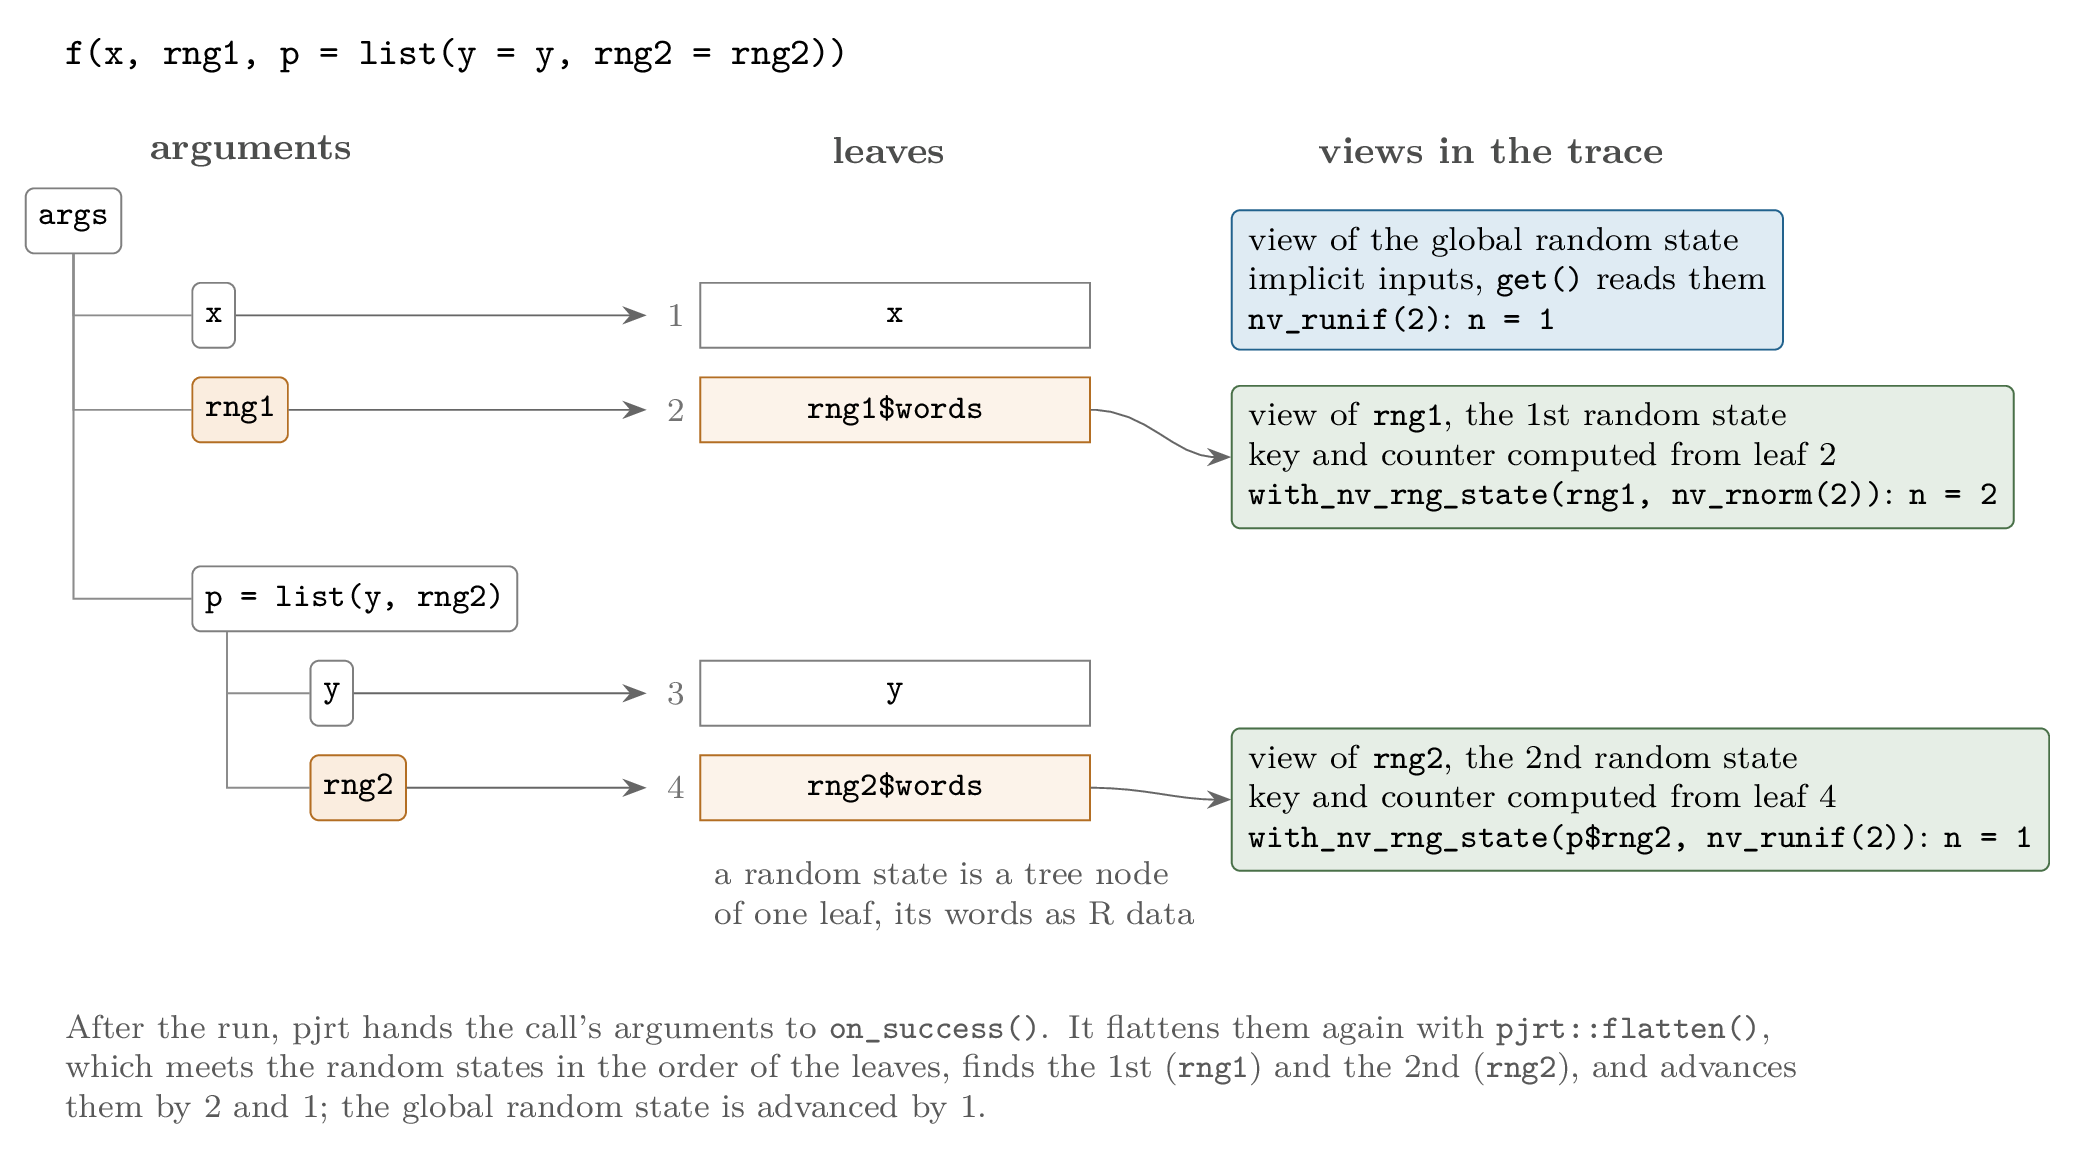
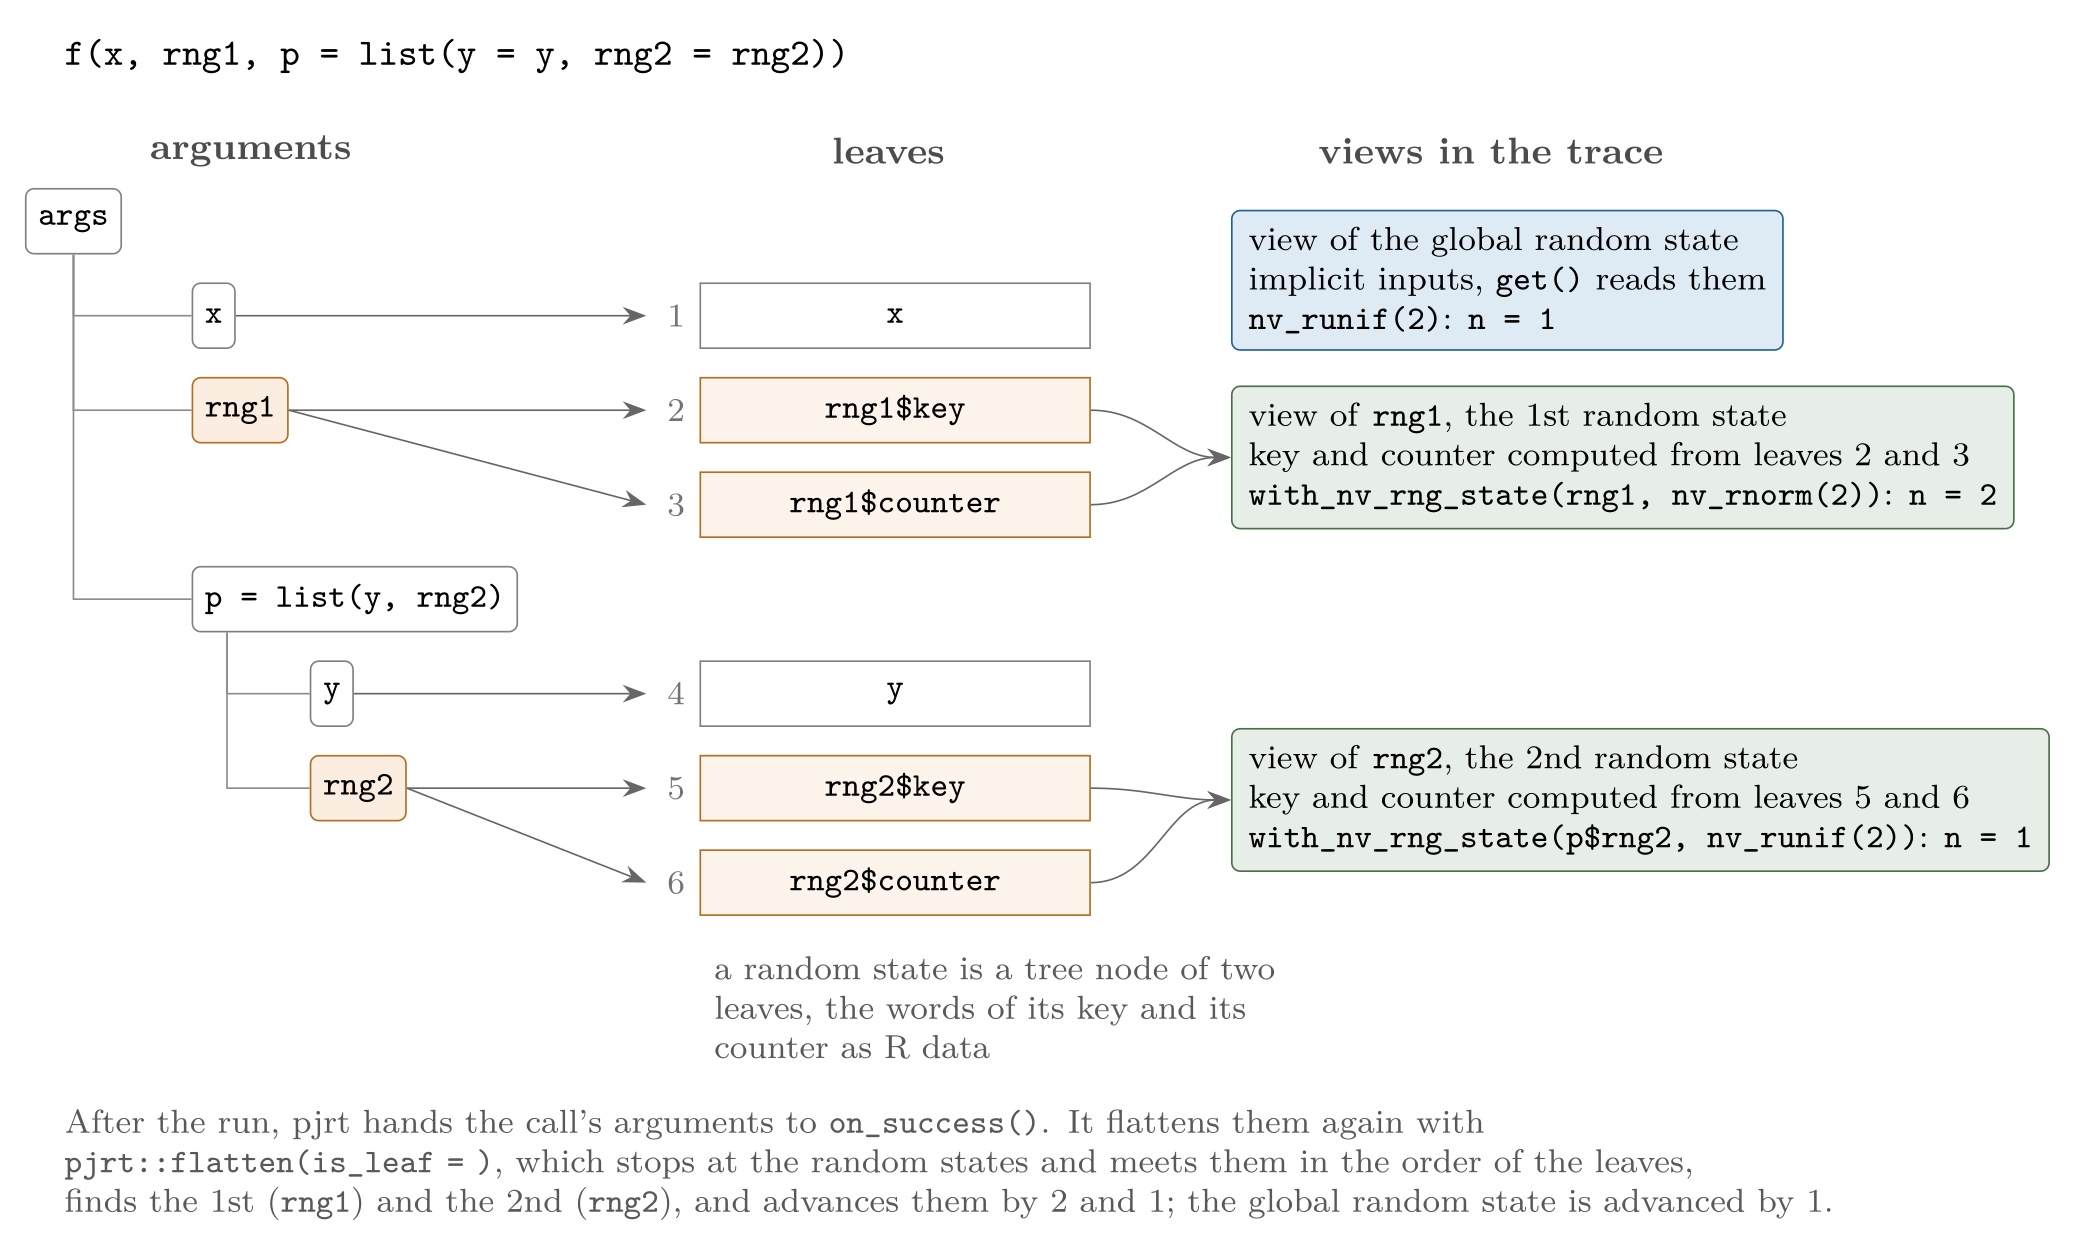
...

diff --git a/vignettes/articles/figures/se-instances.tex b/vignettes/articles/figures/se-instances.tex
@@ -1,11 +1,12 @@
 % The random states one compiled function draws from, and their views:
-% the arguments are flattened into leaves, a random state contributing one (its
-% words, as R data), and each random state among the arguments has a view
-% of its own, identified by a handle that knows its place among the random
-% states of the arguments; the global random state is taken as implicit inputs.
-% After the run, on_success() finds each argument's random state again by that
-% place, flattening the arguments with pjrt::flatten(), and advances it by the
-% draws the trace counted for it.
+% the arguments are flattened into leaves, a random state contributing two (the
+% words of its key and of its counter, as R data), and each random state among
+% the arguments has a view of its own, identified by a handle that knows its
+% place among the random states of the arguments; the global random state is
+% taken as implicit inputs. After the run, on_success() finds each argument's
+% random state again by that place, flattening the arguments with
+% pjrt::flatten(is_leaf = ), and advances it by the draws the trace counted for
+% it.
 % Build: see figures/README.md
 \documentclass[tikz, border = 6pt]{standalone}
 \usepackage[T1]{fontenc}
@@ -58,16 +59,20 @@
   % ---- the leaves ----------------------------------------------------------
   \node[coltitle] at (6.9, 0.6) {leaves};
   \node[leaf]    (L1) at (5.3, -0.8) {x};
-  \node[rngleaf] (L2) at (5.3, -1.6) {rng1\$words};
-  \node[leaf]    (L3) at (5.3, -4.0) {y};
-  \node[rngleaf] (L4) at (5.3, -4.8) {rng2\$words};
-  \foreach \i in {1, ..., 4} \node[num] at (L\i.west) {\i\ };
+  \node[rngleaf] (L2) at (5.3, -1.6) {rng1\$key};
+  \node[rngleaf] (L3) at (5.3, -2.4) {rng1\$counter};
+  \node[leaf]    (L4) at (5.3, -4.0) {y};
+  \node[rngleaf] (L5) at (5.3, -4.8) {rng2\$key};
+  \node[rngleaf] (L6) at (5.3, -5.6) {rng2\$counter};
+  \foreach \i in {1, ..., 6} \node[num] at (L\i.west) {\i\ };
   \draw[edge] (x.east) -- ($(L1.west) + (-0.45, 0)$);
   \draw[edge] (r1.east) -- ($(L2.west) + (-0.45, 0)$);
-  \draw[edge] (y.east) -- ($(L3.west) + (-0.45, 0)$);
-  \draw[edge] (r2.east) -- ($(L4.west) + (-0.45, 0)$);
-  \node[note, anchor = north west] at (5.3, -5.3)
-    {a random state is a tree node\\of one leaf, its words as R data};
+  \draw[edge] (r1.east) -- ($(L3.west) + (-0.45, 0)$);
+  \draw[edge] (y.east) -- ($(L4.west) + (-0.45, 0)$);
+  \draw[edge] (r2.east) -- ($(L5.west) + (-0.45, 0)$);
+  \draw[edge] (r2.east) -- ($(L6.west) + (-0.45, 0)$);
+  \node[note, anchor = north west] at (5.3, -6.1)
+    {a random state is a tree node of two\\leaves, the words of its key and its\\counter as R data};
 
   % ---- the views in the trace ----------------------------------------------
   \node[coltitle] at (12.0, 0.6) {views in the trace};
@@ -77,22 +82,24 @@
      \texttt{nv\_runif(2)}: \texttt{n = 1}};
   \node[inst] (I2) at (9.8, -2.0)
     {view of \texttt{rng1}, the 1st random state\\
-     key and counter computed from leaf 2\\
+     key and counter computed from leaves 2 and 3\\
      \texttt{with\_nv\_rng\_state(rng1, nv\_rnorm(2))}: \texttt{n = 2}};
   \node[inst] (I5) at (9.8, -4.9)
     {view of \texttt{rng2}, the 2nd random state\\
-     key and counter computed from leaf 4\\
+     key and counter computed from leaves 5 and 6\\
      \texttt{with\_nv\_rng\_state(p\$rng2, nv\_runif(2))}: \texttt{n = 1}};
   \draw[edge] (L2.east) to[out = 0, in = 180] (I2.west);
-  \draw[edge] (L4.east) to[out = 0, in = 180] (I5.west);
+  \draw[edge] (L3.east) to[out = 0, in = 180] (I2.west);
+  \draw[edge] (L5.east) to[out = 0, in = 180] (I5.west);
+  \draw[edge] (L6.east) to[out = 0, in = 180] (I5.west);
 
   % ---- after the run -------------------------------------------------------
-  \node[note, anchor = north west, text width = 15.2cm] at (-0.2, -6.6)
+  \node[note, anchor = north west, text width = 15.2cm] at (-0.2, -7.4)
     {After the run, pjrt hands the call's arguments to \texttt{on\_success()}.
-     It flattens them again with \texttt{pjrt::flatten()}, which meets the random
-     states in the order of the leaves, finds the 1st (\texttt{rng1}) and the 2nd
-     (\texttt{rng2}), and advances them by 2 and 1; the global random state is
-     advanced by 1.};
+     It flattens them again with \texttt{pjrt::flatten(is\_leaf = )}, which stops
+     at the random states and meets them in the order of the leaves, finds the
+     1st (\texttt{rng1}) and the 2nd (\texttt{rng2}), and advances them by 2 and
+     1; the global random state is advanced by 1.};
 
 \end{tikzpicture}
 \end{document}
